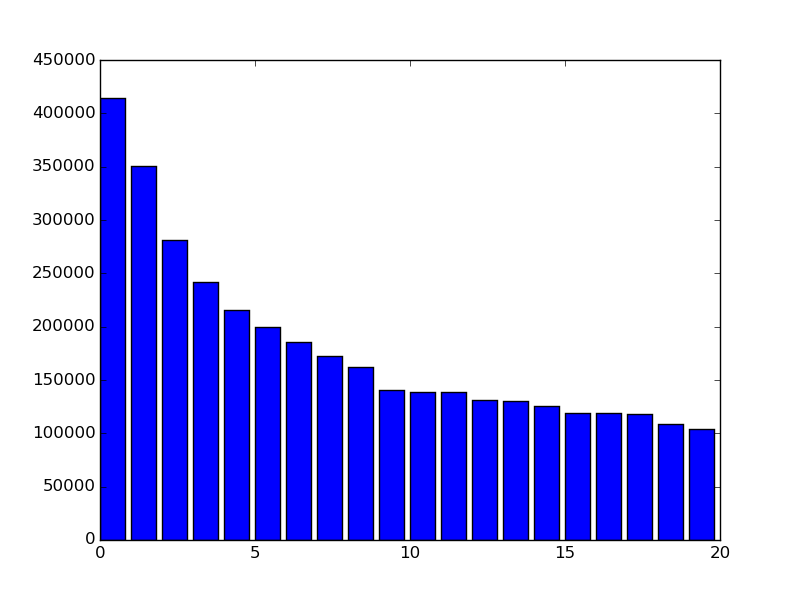
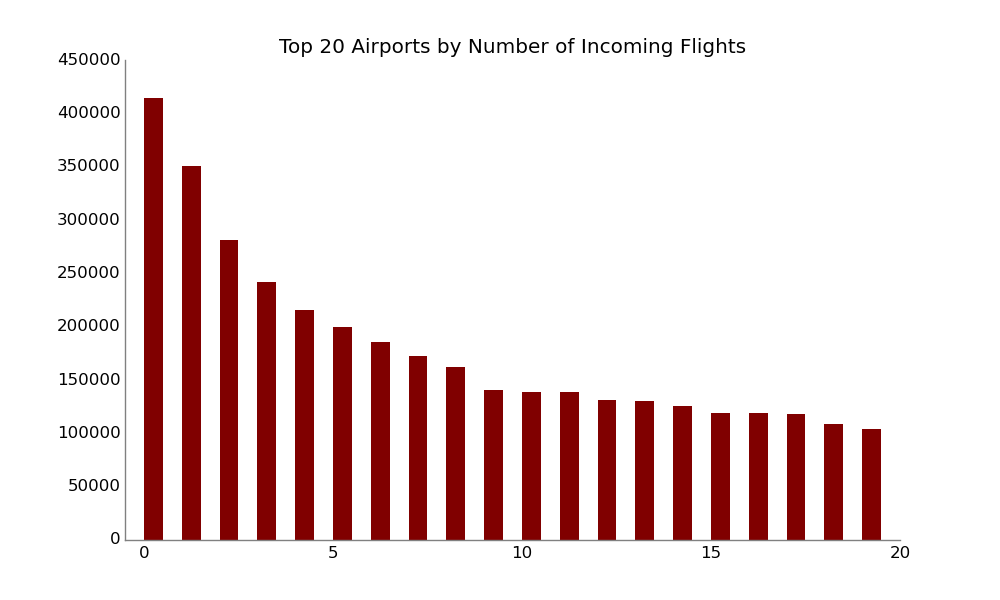
edit plot

Changed region(s): [[0.0312, 0.06, 0.9062, 0.93]]

diff --git a/PythonScripts/num_incoming_by_airport/bar_plot.py b/PythonScripts/num_incoming_by_airport/bar_plot.py
@@ -25,7 +25,25 @@ def main():
     x_labels = df[0].values
     y = df[1].values
 
-    plt.bar(x, y)
+    fig, ax = plt.subplots()
+
+    fig.set_size_inches(10,6)
+
+    plt.title('Top 20 Airports by Number of Incoming Flights')
+    plt.xlim([min(x) - .5, max(x) + 1])
+
+    # Hide the right and top spines
+    ax.spines['right'].set_visible(False)
+    ax.spines['top'].set_visible(False)
+    ax.spines['left'].set_color('gray') 
+    ax.spines['bottom'].set_color('gray') 
+    
+    # Hide tick marks
+    ax.yaxis.set_ticks_position('none')
+    ax.xaxis.set_ticks_position('none')
+
+    plt.bar(x, y, width=.5, color='maroon', edgecolor='none')
+
     plt.savefig("../../plots/top_20_incoming.png")
 
 if __name__ == '__main__':
